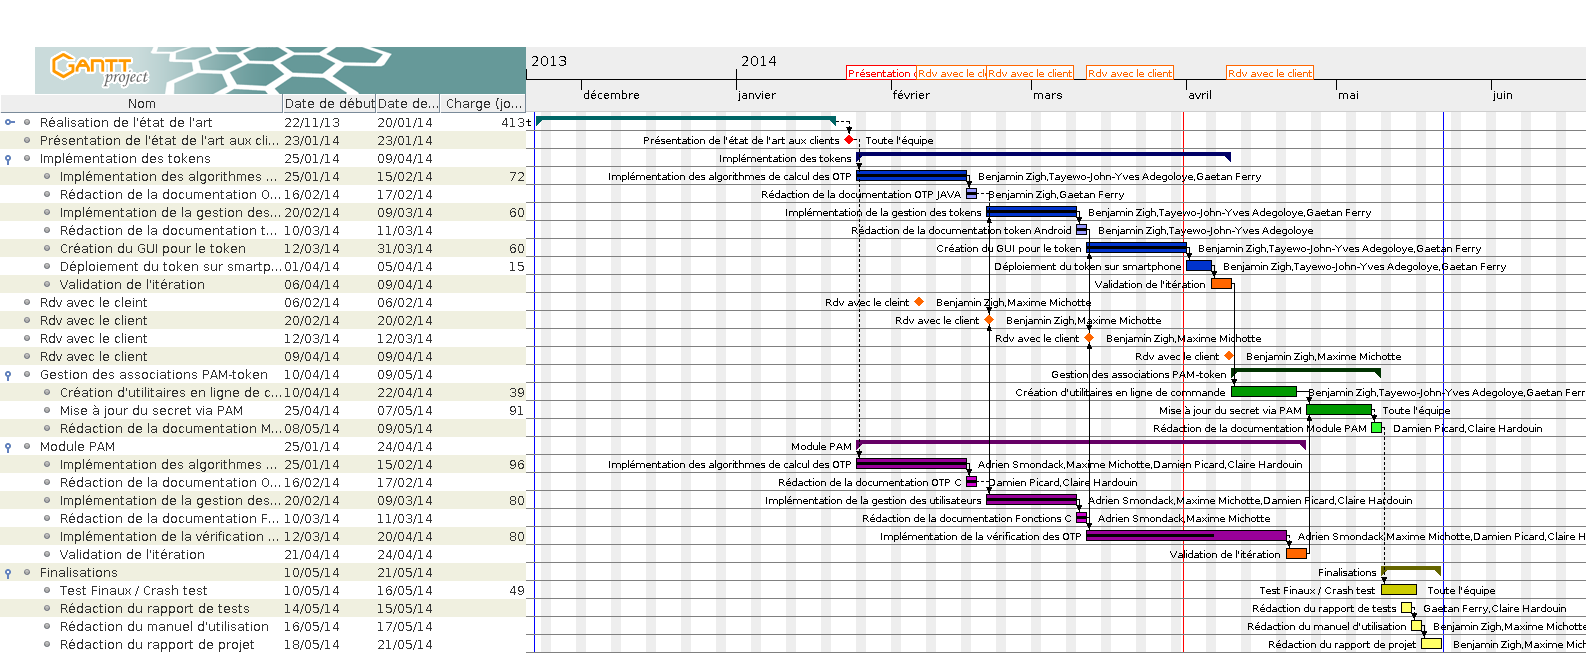
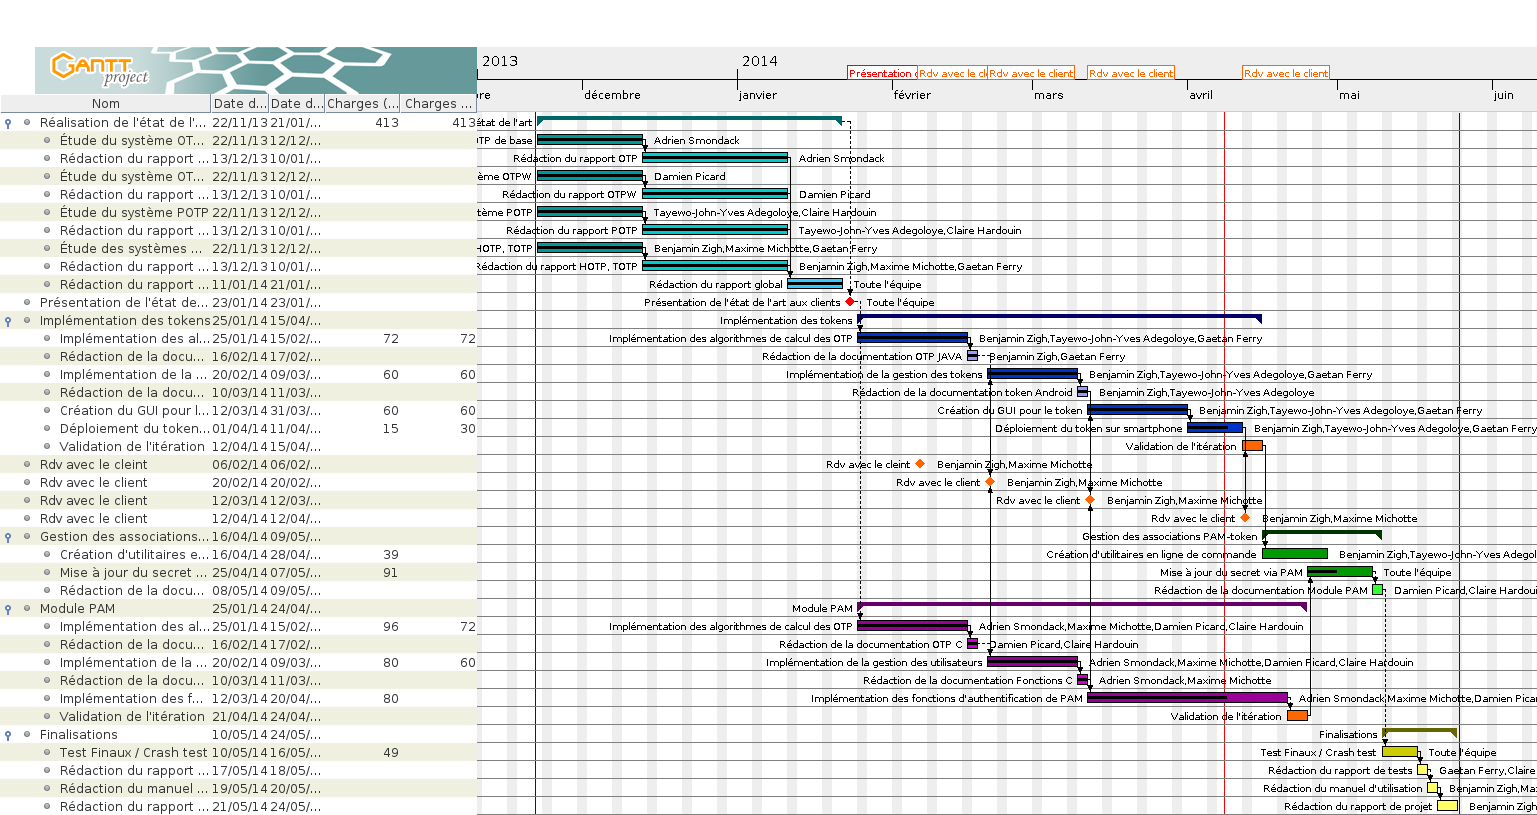
MàJ du PdD et du Gantt
Toutes les dates, les tâches et les charges prévues et effectives ont été actualisées.

diff --git a/doc/Plan de Développement/PdD.tex b/doc/Plan de Développement/PdD.tex
@@ -10,11 +10,12 @@
 \projet{M1SSI}
 \projdesc{Projet de génération d'OTP}
 \filiere{M1SSI}
-\version{2.0}
+\version{3.0}
 \relecteur{Gaëtan \bsc{Ferry}}
 \signataire{Magali \bsc{Bardet}}
 \date{Février 2014}
 
+\histentry{3.0}{07/04/2014}{Prise en compte des changements de fin d'itération.}
 \histentry{2.0}{21/02/2014}{Version post état de l'art}
 \histentry{1.3}{16/01/2014}{Version pour la revue de lancement.}
 \histentry{1.2}{06/01/2014}{Version Finale.}
@@ -33,7 +34,7 @@
 \subsection{Contexte du développement}
 	\begin{description} 
 		\item [Cadre :] Projet annuel de la formation M1SSI;
-		\item [Période :] Novembre - Avril;
+		\item [Période :] Novembre - Mai;
 		\item [Contraintes :] Documents techniques et état de l'art rendus pour Janvier.
 	\end{description}
 
@@ -51,7 +52,7 @@
 		\item Garantir une sécurité forte.
 	\end{itemize}
 
-\subsection{Références} 
+\subsection{Références}
 	\begin{tabular}{p{1,5cm}>{\raggedright\arraybackslash}p{13cm}}
 		{[ANS10]} & {ANSSI. Référentiel général de sécurité. \href{http://www.ssi.gouv.fr/fr/reglementation-ssi/referentiel-general-de-securite}{http://www.ssi.gouv.fr/fr/reglementation-ssi/referentiel-general-de-securite}, 2010.}
 		\tabularnewline
@@ -84,14 +85,14 @@
 	Nous avons comparé les différentes méthodes de développement vues en cours afin d'employer la mieux adaptée à notre projet. Parmi les méthodologies Agiles, qui nous étaient imposées, deux ont retenu notre attention: Scrum et eXtreme Programming (XP). En effet, ces deux méthodes sont bien adaptées à des équipes de taille réduite comme la notre. Nous avons donc comparé point par point les différents aspects de Scrum et XP.\\
 
 	Comme mentionné précédemment, les deux ont l'avantage de bien s'adapter à des effectifs réduits comme le notre. XP est de plus pensé spécifiquement pour les projets de taille réduite. XP est plus orienté technique, avec des pratiques de codes établies tandis que Scrum met plus l'accent sur la gestion de projet pure et favorise la communication au sein de l'équipe.\\	
-		
+
 	Les différents comparatifs \footnote{\href{http://agile-only.com/master-thesis/software-dm/agile-s-dm/c-of-am}{http://agile-only.com/master-thesis/software-dm/agile-s-dm/c-of-am}}\footnote{\href{http://www.exa.unicen.edu.ar/catedras/agilem/comp.pdf}{http://www.exa.unicen.edu.ar/catedras/agilem/comp.pdf}} que nous avons pu étudier montrent que XP est généralement plus rapide mais plus couteux que Scrum. XP centre sa dynamique autour du client, tandis que Scrum favorise l'indépendance des équipes de développement.\\
-		
+
 	Au final, de nombreux critères nous ont orienté dans notre choix mais aucun n'a été plus important que la sécurité. Il s'agit en effet de l'objectif principal à atteindre pour un projet comme le notre et nous avons donc décidé de baser le choix de notre méthodologie dessus.\\
 		
-	Nous avons donc opté pour XP comme base, car cela semblait le plus cohérent pour un projet orienté sécurité, mais nous avons prévu d'adapter la méthode au contraintes de notre projet. En effet, les méthodes Agiles ne sont pas au point pour ce qui est des projets de sécurité informatique et les témoignages\footnote{\href{http://www.tripwire.com/state-of-security/security-data-protection/the-security-implications-of-agile-development/}{http://www.tripwire.com/state-of-security/security-data-protection/the-security-implications-of-agile-development/}} que nous avons pu recueillir préviennent que l'attachement à une méthode particulière peut se révéler contre-productif.\\
+	Nous avons donc opté pour XP comme base, car cela semble le choix le plus cohérent pour un projet orienté sécurité, mais nous avons prévu d'adapter la méthode au contraintes de notre projet. En effet, les méthodes Agiles ne sont pas au point pour ce qui est des projets de sécurité informatique et les témoignages\footnote{\href{http://www.tripwire.com/state-of-security/security-data-protection/the-security-implications-of-agile-development/}{http://www.tripwire.com/state-of-security/security-data-protection/the-security-implications-of-agile-development/}} que nous avons pu recueillir préviennent que l'attachement à une méthode particulière peut se révéler contre-productif.\\
 
-	Néanmoins, afin de nous prêter à l'évaluation du projet dans les meilleures conditions possible, nous resterons au plus proche d'XP à travers tous le développement.
+	Néanmoins, afin de nous prêter à l'évaluation du projet dans les meilleures conditions possibles, nous resterons au plus proche d'XP à travers tous le développement.
 	
 \subsection{eXtreme Programming: les grands principes}
 	Il y a de nombreux principes qui composent l'eXtreme Programming, nous décrirons ici celles sur lesquelles nous comptons nous focaliser.
@@ -105,9 +106,9 @@
 	Selon les principes d'intégration continue, on interface les composants entre eux au fur et à mesure du développement, afin de faciliter la livraison. Le refactoring  consiste à revoir régulièrement le code sans changer les fonctionnalités ou le comportement, ceci afin de produire du code facilement maintenable.
 
 \subsubsection{Appropriation collective du code et programmation en binôme}
-	Chaque membre de l'équipe devra être capable de travailler sur n'importe quelle partie du projet. La programmation se fera en binômes (deux par machine) afin de produire du code rigoureux et d'aider à faire progresser les membres plus faibles en technique. \\
+	Chaque membre de l'équipe devra être capable de travailler sur n'importe quelle partie du projet. La programmation se fera en binômes (deux par machine) afin de produire du code rigoureux et d'aider à faire progresser les membres plus faibles en technique.\\
 
-	La revue de code sera effectuée régulièrement	par les binômes sur le code des autres binôme, afin d'assurer le respect des conventions de codes fixées par le responsable technique et de faciliter l'intégration avec leur propre code.
+	La revue de code sera effectuée régulièrement par les binômes sur le code des autres binômes, afin d'assurer le respect des conventions de codes fixées par le responsable technique et de faciliter l'intégration avec leur propre code.
 
 \subsection{Étapes du développement}
 	\begin{description}
@@ -144,13 +145,13 @@
 		        \item [Objectif :] Fournir un générateur d'OTP.
 		        \item [Activité :] Intégration des outils et des modules de calculs d'OTP dans une IHM.
 		        \item [Produit livrable :] Les tokens.
-		        \item [Responsabilité :]  La moitié de l'équipe.
+		        \item [Responsabilité :] La moitié de l'équipe.
 		    \end{description}
-	    \item [Étape 6 :] Implémentation de la vérification des OTP en C
+	    \item [Étape 6 :] Implémentation des fonctions d'authentification de PAM
 		    \begin{description}
-		        \item [Objectif :] Permettre la vérification de la validité d'un OTP.
+		        \item [Objectif :] Permettre une connexion avec un OTP en vérifiant sa validité.
 		        \item [Activité :] Mettre en place l'algorithme de comparaison de l'OTP reçut avec les données stockées.
-		        \item [Produit livrable :] Module de vérification.
+		        \item [Produit livrable :] Le module d'authentification.
 		        \item [Responsabilité :] La moitié de l'équipe.
 	            \end{description}
 	    \item [Étape 7 :] Création du GUI pour le Token android en Java
@@ -158,49 +159,42 @@
 		        \item [Objectif :] Fournir une interface au token.
 		        \item [Activité :] Développer le GUI pour le Token.
 		        \item [Produit livrable :] Les tokens.
-		        \item [Responsabilité :]  La moitié de l'équipe.
+		        \item [Responsabilité :] La moitié de l'équipe.
 		    \end{description}
 	    \item [Étape 8 :] Déploiment du Token sur SmartPhone
 		    \begin{description}
 		        \item [Objectif :] Token utilisable sur SmartPhone.
 		        \item [Activité :] Intégrer le Token à un SmartPhone.
 		        \item [Produit livrable :] Les tokens.
-		        \item [Responsabilité :]  La moitié de l'équipe.
+		        \item [Responsabilité :] La moitié de l'équipe.
 		    \end{description}
-	    \item [Étape 9 :] Implémentation de la fonction d'authentification sur PAM
-		    \begin{description}
-		        \item [Objectif :] Permettre une connexion avec un OTP.
-		        \item [Activité :] Développement d'un module d'authentification.
-		        \item [Produit livrable :] Le module d'authentification.
-		        \item [Responsabilité :]  La moitié de l'équipe.
-		    \end{description}
-	    \item [Étape 10 :] Création d'utilitaire en ligne de commande
+	    \item [Étape 9 :] Création d'utilitaire en ligne de commande
 		    \begin{description}
 		        \item [Objectif :] Effectuer des opérations en ligne de commande.
 		        \item [Activité :] Créer de nouvelles commandes.
 		        \item [Produit livrable :] L'utilitaire.
-		        \item [Responsabilité :]  La moitié de l'équipe.
+		        \item [Responsabilité :] La moitié de l'équipe.
 		    \end{description}
-	    \item [Étape 11 :] Mise à jour du secret via PAM
+	    \item [Étape 10 :] Mise à jour du secret via PAM
 		    \begin{description}
 		        \item [Objectif :] Permettre la modification du secret.
 		        \item [Activité :] Développement du module PAM permettant la modification du secret.
 		        \item [Produit livrable :] Module PAM de mise à jour du secret.
-		        \item [Responsabilité :]  La moitié de l'équipe.
+		        \item [Responsabilité :] La moitié de l'équipe.
 		    \end{description}
-	    \item [Étape 12 :] Tests finaux, crash-test
+	    \item [Étape 11 :] Tests finaux, crash-test
 		    \begin{description}
 		        \item [Objectif :] Démontrer la force du système.
 		        \item [Activité :] Tester l'application dans son ensemble et tenter des attaques sur le système.
 		        \item [Produit livrable :] Le produit final.
-		        \item [Responsabilité :]  L'équipe.
+		        \item [Responsabilité :] L'équipe.
 		    \end{description}
     \end{description}
     
 \newpage
 %---------------------------------------------------------------------------------------------------------------------------------------------
 \section{Organisation et responsabilités}
-	\begin{figure}[h]
+	\begin{figure}[h!]
 		\includegraphics[scale=0.5]{organigramme.png}
 		\caption{Organigramme des rôles au sein de l'équipe}
 	\end{figure}
@@ -214,11 +208,13 @@
 	
 \newpage
 %---------------------------------------------------------------------------------------------------------------------------------------------
-\section{Organigramme des t\^aches}
+\section{Organigramme des tâches}
 	L'organisation suivante est déduite de l'état de l'art, qui n'est donc pas inclus.
 	\begin{figure}[h]
-		\includegraphics[scale=0.5]{taches.png}
-		\caption{Organigramme des tâches à accomplir}
+		\begin{center}
+			\includegraphics[scale=0.5]{taches.png}
+			\caption{Organigramme des tâches à accomplir}
+		\end{center}
 	\end{figure}
 	
 	\begin{description}
@@ -234,75 +230,75 @@
 	Pour rappel, le projet peut être décomposé en 11 tâches distinctes :
 	\begin{itemize}
 	  \item Réalisation de l'état de l'art.
-	  \item Algorithmes de calcul des OTP en C.
-	  \item Algorithmes de calcul des OTP en JAVA.
+	  \item Implémentation des algorithmes de calcul des OTP en C.
+	  \item Implémentation des algorithmes de calcul des OTP en JAVA.
 	  \item Implémentation de la gestion des utilisateurs en C.
 	  \item Implémentation de la gestion des Tokens en Java.
-	  \item Implémentation de la vérification des OTP en C.
+	  \item Implémentation des fonctions d'authentification de PAM.
 	  \item Création du GUI pour le Token android en Java.
 	  \item Déploiement du Token sur SmartPhone.
-	  \item Implémentation de la fonction d'authentification sur PAM.
-	  \item Création d'utilitaire en ligne de commande.
+	  \item Création d'utilitaires en ligne de commande.
 	  \item Mise à jour du secret via PAM.
 	  \item Test finaux, crash-test.\\
 	\end{itemize}
 
-	Pour réaliser toutes ces taches, on dispose de 169 jours complets de travail. Sur ces 169 jours, 7 collaborateurs travaillerons à temps plein sur le projet. Au total, nous disposons donc d'un total de 1183 jours-hommes de capacité de travail. Évaluons la charge requise pour chacune des taches :\\
+	Pour réaliser toutes ces tâches, on dispose de 169 jours complets de travail. Sur ces 169 jours, 7 collaborateurs travaillerons à temps plein sur le projet. Au total, nous disposons donc d'un total de 1183 jours-hommes de capacité de travail. Évaluons la charge requise pour chacune des taches :\\
 	
-	L'état de l'art est une étape importante qui nécessite d'être parfaitement réalisée. Nous estimons la charge de travail nécessaire à sa réalisation à 413 jours-hommes.
-	
-	Les implémentations des algorithmes pour les calculs d'OTP en C et en JAVA, étapes cruciales à l'avancement du projet, sont évaluées respectivement à 96 et 72 jours-hommes.
-	
-	Ensuite on passe à l'implémentation de la gestion des utilisateurs en C et celle des tokens en Java, pour lesquelles on estime 80 et 60 jours-hommes respectivement.
-	
-	L' implémentation des fonctions de vérifications des OTP en C et la création d'une interface graphique pour le token Android sont également évaluées à 80 et 60 jours-hommes respectivement. 
-	
-	Puis le le déploiement des tokens Androisd sur smartphone prendra seulement 15 jours-hommes.
-	
-	Le développement des fonctions d'authentification sur PAM est évalué à 80 jours-hommes. Dans le même temps on créera des utilitaires en ligne de commande, cette tâche est estimée à 39 jours-hommes.
-	
-	Enfin, on réunit toute l'équipe pour mettre au point la mise à jour d'un secret via PAM, cette tâche est évaluée à 91 jours-hommes.
-	
-	Pour finir, l'étape des tests finaux est évaluée à 49 jours-hommes.\\
-	
-	Ces informations sont résumées dans le tableau suivant :
+	\begin{tabular}{|l|l|}
+		\hline
+		Tâche & Charges\\ 
+		\hline
+		État de l'art & 413 jours-hommes.\\
+		Implémentation des algorithmes pour les calculs d'OTP en C & 96 jours-hommes.\\
+		Implémentation des algorithmes pour les calculs d'OTP en JAVA & 72 jours-hommes.\\
+		Implémentation de la gestion des utilisateurs en C & 80 jours-hommes.\\
+		Implémentation des tokens en JAVA & 60 jours-hommes.\\
+		Implémentation des fonctions d'authentification de PAM & 160 jours-hommes.\\
+		Création d'une interface graphique pour le token Android & 60 jours-hommes.\\
+		Déploiement des tokens Android sur smartphone & 15 jours-hommes.\\
+		Création des utilitaires en ligne de commande & 39 jours-hommes.\\
+		Mise à jour du secret via PAM & 91 jours-hommes.\\
+		Tests finaux & 49 jours-hommes.\\ 
+		\hline
+	\end{tabular}
 	
 	\begin{tabular}{|l|l|l|}
 	 	\hline
-		Tache & Durée & Ressources mobilisées \\ \hline
+		Tâche & Durée & Ressources mobilisées \\ 
+		\hline
 		État de l'art & 59 Jours & 7 personnes \\
-		Algorithmes pour le calcul des OTP en C & 24 Jours & 4 personnes \\
-		Algorithmes pour le calcul des OTP en Java & 24 Jours & 3 personnes \\
+		Implémentation des algorithmes pour le calcul des OTP en C & 24 Jours & 4 personnes \\
+		Implémentation des algorithmes pour le calcul des OTP en Java & 24 Jours & 3 personnes \\
 		Implémentation de la gestion des utilisateurs en C. & 20 jours & 4 personnes \\
 		Implémentation de la gestion des Tokens en Java. & 20 Jours & 3 personnes \\
-		Implémentation de la vérification des OTP en C. & 20 Jours & 4 personnes \\
+		Implémentation des fonctions d'authentification de PAM. & 40 Jours & 4 personnes \\
 	  	Création du GUI pour le Token android en Java. & 20 Jours & 3 personnes \\
 		Déploiment du Token sur SmartPhone. & 5 Jours & 3 personnes \\
-	  	Implémentation de la fonction d'authentification sur PAM. & 20 Jours & 4 personnes \\
 	  	Création d'utilitaire en ligne de commande. & 13 Jours & 3 personnes \\
 	  	Mise à jour du secret via PAM. & 13 Jours & 7 personnes \\
-		Tests finaux & 7 Jours & 7 personnes \\ \hline
+		Tests finaux & 7 Jours & 7 personnes \\ 
+		\hline
 	\end{tabular}
 
 \newpage
 %---------------------------------------------------------------------------------------------------------------------------------------------
 \section{Planning général}
-	\begin{figure}[h]
+	\begin{figure}[h!]
 		\includegraphics[scale=0.33]{ressources.png}
 		\caption{Répartition des ressources sur le projet.}
 	\end{figure}
 	
 	\newpage
 	
-	\begin{figure}[h]
-		\includegraphics[scale=0.33]{gantt.png}
+	\begin{figure}[h!]
+		\includegraphics[scale=0.33]{gantt2-0.png}
 		\caption{Planning des étapes du projet.}
 	\end{figure}
-	\vspace{2cm}
-	\begin{figure}[h]
-		\includegraphics[scale=0.33]{pert.png}
-		\caption{Ordonnancement des tâches du projet.}
-	\end{figure}
+	%\vspace{2cm}
+	%\begin{figure}[h]
+		%\includegraphics[scale=0.33]{pert.png}
+		%\caption{Ordonnancement des tâches du projet.}
+	%\end{figure}
 	
 	\newpage
 
@@ -326,7 +322,7 @@
 
 \subsection{Gestion des configurations}
 \subsubsection{Gestion des versions}
-	Nous avons choisi d'utiliser le logiciel git pour gérer les différentes versions du projet et des documents). A l'aide de celui-ci, nous pourrons aisément contrôler les étapes d'avancement du projet au cours de son développement. 
+	Nous avons choisi d'utiliser le logiciel git pour gérer les différentes versions du projet et des documents. À l'aide de celui-ci, nous pourrons aisément contrôler les étapes d'avancement du projet au cours de son développement. 
 
 	Git permet de développer collaborativement à distance en enregistrant et/ou fusionnant les modifications apportées par les différents membres de l'équipe. Nous ne nous attarderons pas ici sur le fonctionnement de git (voir \href{http://git-scm.com/book/fr/Démarrage-rapide-Rudiments-de-Git}{http://git-scm.com/book/fr/Démarrage-rapide-Rudiments-de-Git}).
 
@@ -360,7 +356,7 @@
 	\item Algorithmes de calcul des OTP en C et Java:
 	\begin{description}
 		\item[Objectifs :] Concevoir des outils de calcul et de vérification d'OTP.
-		\item[Prévisions :] Du 21/01/14 au 15/02/14 - État de l'art terminé.
+		\item[Prévisions :] Du 25/01/14 au 15/02/14 - État de l'art terminé.
 		\item[Objet des vérifications :] Compilation du code + Tests.
 		\item[Modalité de contrôle :] Documentation à remettre au client.
 		\item[Intervenants :] Par groupes.
@@ -369,7 +365,7 @@
 	\item Implémentation de la gestion des utilisateurs en C:
 	\begin{description}
 		\item[Objectifs :] Concevoir des outils de gestion des utilisateurs.
-		\item[Prévisions :] Du 15/02/14 au 08/03/14 - Algorithmes de calcul disponibles.
+		\item[Prévisions :] Du 20/02/14 au 09/03/14 - Algorithmes de calcul disponibles.
 		\item[Objet des vérifications :] Compilation du code + tests.
 		\item[Modalité de contrôle :] Module de gestion utilisateurs à remettre au client.
 		\item[Intervenants :] Par groupes.
@@ -378,25 +374,25 @@
 	\item Implémentation de la gestion des Tokens en Java:
 	\begin{description}
 		\item[Objectifs :] Fournir des générateurs d'OTP.
-		\item[Prévisions :] Du 15/02/14 au 08/03/14 - Algorithmes de calcul disponibles.
+		\item[Prévisions :] Du 20/02/14 au 09/03/14 - Algorithmes de calcul disponibles.
 		\item[Objet des vérifications :] Retour d'un OTP respectant les spécifications.
 		\item[Modalité de contrôle :] Manuel d'utilisation et token à remettre au client.
 		\item[Intervenants :] Par groupes.
 	\end{description}
 	\vfill
-	\item Implémentation de la vérification des OTP en C:
+	\item Implémentation des fonctions d'authentification de PAM:
 	\begin{description}
 		\item[Objectifs :] Vérification de la validité d'un OTP reçut.
-		\item[Prévisions :] Du 08/03/14 au 29/03/14 - Gestion utilisateurs + Tokens disponibles.
+		\item[Prévisions :] Du 12/03/14 au 20/04/14 - Gestion utilisateurs + Tokens disponibles.
 		\item[Objet des vérifications :] Compilation du code + tests.
-		\item[Modalité de contrôle :] Module de vérification des OTP à remettre au client.
+		\item[Modalité de contrôle :] Module d'authentification à remettre au client.
 		\item[Intervenants :] Par groupes.
 	\end{description}
 	\vfill
 	\item Création du GUI pour le Token Android en Java:
 	\begin{description}
 		\item[Objectifs :] Fournir l'interface du token.
-		\item[Prévisions :] Du 08/03/14 au 29/03/14 - Gestion utilisateurs + Tokens disponibles.
+		\item[Prévisions :] Du 12/03/14 au 31/03/14 - Gestion utilisateurs + Tokens disponibles.
 		\item[Objet des vérifications :] Compilation du code + tests.
 		\item[Modalité de contrôle :] Manuel d'utilisation et token à remettre au client.
 		\item[Intervenants :] Par groupes.
@@ -405,7 +401,7 @@
 	\item Déploiement du Token sur SmartPhone:
 	\begin{description}
 		\item[Objectifs :] Token utilisable sur SmartPhone.
-		\item[Prévisions :] Du 29/03/14 au 05/04/14 - Vérification d'OTP disponible + Interface du token.
+		\item[Prévisions :] Du 01/04/14 au 06/04/14 - Vérification d'OTP disponible + Interface du token.
 		\item[Objet des vérifications :] Tests.
 		\item[Modalité de contrôle :] Token à remettre au client.
 		\item[Intervenants :] Par groupes.
@@ -414,7 +410,7 @@
 	\item Implémentation de la fonction d'authentification sur PAM:
 	\begin{description}
 		\item[Objectifs :] Authentification à base d'OTP possible.
-		\item[Prévisions :] Du 29/03/14 au 19/04/14 - Vérification d'OTP disponible + Interface du token.
+		\item[Prévisions :] Du 12/03/14 au 20/04/14 - Vérification d'OTP disponible + Interface du token.
 		\item[Objet des vérifications :] Compilation du code + Tests.
 		\item[Modalité de contrôle :] Module PAM d'authentification à remettre au client.
 		\item[Intervenants :] Par groupes.
@@ -423,7 +419,7 @@
 	\item Création d'utilitaire en ligne de commande:
 	\begin{description}
 		\item[Objectifs :] Lignes de commandes opérationnelles.
-		\item[Prévisions :] Du 05/04/14 au 19/04/14 - Vérification d'OTP disponible + Interface du token.
+		\item[Prévisions :] Du 16/04/14 au 28/04/14 - Vérification d'OTP disponible + Interface du token.
 		\item[Objet des vérifications :] Tests.
 		\item[Modalité de contrôle :] utilitaire à remettre au client.
 		\item[Intervenants :] Par groupes.
@@ -432,7 +428,7 @@
 	\item Mise à jour du secret via PAM:
 	\begin{description}
 		\item[Objectifs :] Changement du secret possible.
-		\item[Prévisions :] Du 19/04/14 au 03/05/14 - Authentification + utilitaire en ligne de commande disponible.
+		\item[Prévisions :] Du 25/04/14 au 07/05/14 - Authentification + utilitaire en ligne de commande disponible.
 		\item[Objet des vérifications :] Compilation du code + Tests.
 		\item[Modalité de contrôle :] Module PAM de mise à jour du secret à remettre au client.
 		\item[Intervenants :] Par groupes.
@@ -441,7 +437,7 @@
 	\item Test finaux, crash-test:
 	\begin{description}
 		\item[Objectifs :] Assurer une sécurité mi-forte (authentification à deux facteurs).
-		\item[Prévisions :] Du 03/05/14 au 11/05/14 - Authentifications possibles.
+		\item[Prévisions :] Du 10/05/14 au 16/05/14 - Authentifications possibles.
 		\item[Objet des vérifications :] Résultat des tests positifs.
 		\item[Modalité de contrôle :] Rapport de tests + Rapport de projet à remettre au client.
 		\item[Intervenants :] Toute l'équipe.
